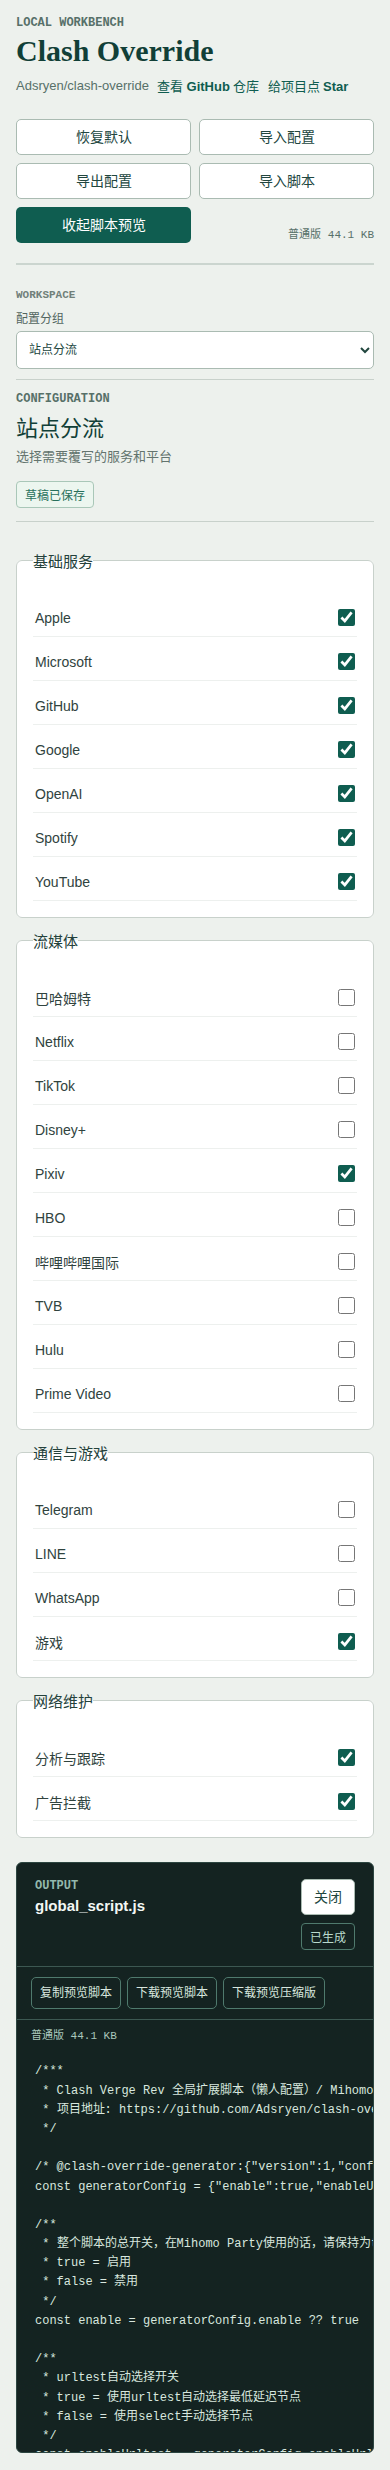
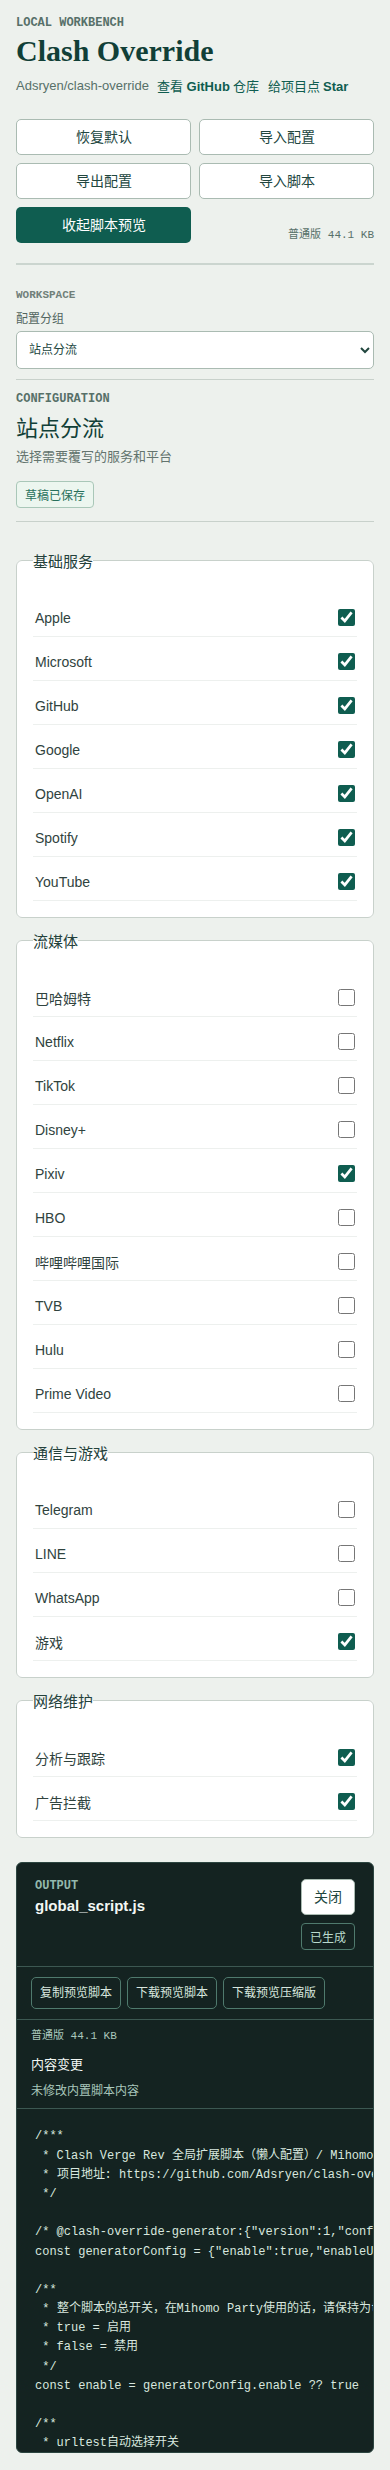
feat(generator): 添加内容变更摘要

Changed region(s): [[0.0923, 0.8105, 0.9538, 0.9976], [0.8, 0.9352, 0.8308, 0.9664]]

diff --git a/generator/src/App.tsx b/generator/src/App.tsx
@@ -216,6 +216,12 @@ interface ContentEntry {
   value: string
 }
 
+interface ContentChangeSummary {
+  label: string
+  added: string[]
+  removed: string[]
+}
+
 const ruleProviderTemplate = JSON.stringify({
   'example-provider': {
     type: 'http',
@@ -281,6 +287,27 @@ function contentEntries(content: GeneratedContent): ContentEntry[] {
   ]
 }
 
+function contentChangeSummaries(config: GeneratorConfig): ContentChangeSummary[] {
+  const overrides = config.contentOverrides ?? defaultScriptContentOverrides
+  return [
+    {
+      label: '规则',
+      added: overrides.rules.add,
+      removed: overrides.rules.remove,
+    },
+    {
+      label: '规则提供者',
+      added: Object.keys(overrides.ruleProviders.add),
+      removed: overrides.ruleProviders.remove,
+    },
+    {
+      label: '策略组',
+      added: overrides.proxyGroups.add.map((group) => group.name),
+      removed: overrides.proxyGroups.remove,
+    },
+  ]
+}
+
 function App() {
   const [workspace, setWorkspace] = useState<GeneratorWorkspace>(() => loadWorkspace())
   const [presetName, setPresetName] = useState('')
@@ -302,6 +329,7 @@ function App() {
   } | null>(null)
   const script = useMemo(() => renderScript(workspace.draft), [workspace.draft])
   const generatedContent = useMemo(() => inspectGeneratedContent(workspace.draft), [workspace.draft])
+  const contentChanges = useMemo(() => contentChangeSummaries(workspace.draft), [workspace.draft])
   const filteredContent = useMemo(() => {
     const query = contentSearch.trim().toLocaleLowerCase()
     return contentEntries(generatedContent).filter((entry) => {
@@ -789,6 +817,7 @@ function App() {
             script={script}
             scriptSize={scriptSize}
             minifiedStats={minifiedStats}
+            contentChanges={contentChanges}
             onClose={() => setIsPreviewOpen(false)}
             onCopy={handleCopy}
             onDownload={handleDownload}
@@ -1119,6 +1148,7 @@ interface PreviewDrawerProps {
   script: string
   scriptSize: number
   minifiedStats: { size: number; reduction: number } | null
+  contentChanges: ContentChangeSummary[]
   onClose: () => void
   onCopy: () => void
   onDownload: () => void
@@ -1126,7 +1156,8 @@ interface PreviewDrawerProps {
   isMinifying: boolean
 }
 
-function PreviewDrawer({ script, scriptSize, minifiedStats, onClose, onCopy, onDownload, onDownloadMinified, isMinifying }: PreviewDrawerProps) {
+function PreviewDrawer({ script, scriptSize, minifiedStats, contentChanges, onClose, onCopy, onDownload, onDownloadMinified, isMinifying }: PreviewDrawerProps) {
+  const hasContentChanges = contentChanges.some(({ added, removed }) => added.length > 0 || removed.length > 0)
   return (
     <aside className="preview-panel" id="script-preview-drawer" aria-label="脚本预览" aria-modal="false">
       <div className="preview-header">
@@ -1135,6 +1166,31 @@ function PreviewDrawer({ script, scriptSize, minifiedStats, onClose, onCopy, onD
       </div>
       <div className="preview-actions"><button className="button secondary" type="button" onClick={onCopy}>复制预览脚本</button><button className="button secondary" type="button" onClick={onDownload}>下载预览脚本</button><button className="button secondary" type="button" disabled={isMinifying} onClick={onDownloadMinified}>{isMinifying ? '正在压缩...' : '下载预览压缩版'}</button></div>
       <div className="compression-summary" aria-label="脚本大小"><span>普通版 {formatBytes(scriptSize)}</span>{minifiedStats && <><span>压缩版 {formatBytes(minifiedStats.size)}</span><span>减少 {minifiedStats.reduction.toFixed(1)}%</span></>}</div>
+      <section className="content-change-summary" aria-labelledby="content-change-heading">
+        <h3 id="content-change-heading">内容变更</h3>
+        {!hasContentChanges ? (
+          <p>未修改内置脚本内容</p>
+        ) : (
+          <div className="content-change-list">
+            {contentChanges.map(({ label, added, removed }) => (
+              <article className="content-change-category" key={label}>
+                <h4>{label}</h4>
+                <div className="content-change-counts">
+                  <span>新增 {added.length} 项</span>
+                  <span>移除 {removed.length} 项</span>
+                </div>
+                <details>
+                  <summary>查看明细</summary>
+                  <div className="content-change-details">
+                    {added.length > 0 && <div><strong>新增</strong><ul>{added.map((item) => <li key={`add-${item}`}>{item}</li>)}</ul></div>}
+                    {removed.length > 0 && <div><strong>移除</strong><ul>{removed.map((item) => <li key={`remove-${item}`}>{item}</li>)}</ul></div>}
+                  </div>
+                </details>
+              </article>
+            ))}
+          </div>
+        )}
+      </section>
       <pre className="script-preview" data-testid="script-preview"><code>{script}</code></pre>
     </aside>
   )

diff --git a/generator/src/App.test.tsx b/generator/src/App.test.tsx
@@ -5,6 +5,7 @@ import App from './App'
 import { defaultGeneratorConfig } from './domain/config'
 import { serializeConfigFile } from './domain/config-file'
 import { renderScript } from './domain/script'
+import { generatorWorkspaceStorageKey } from './domain/storage'
 
 const createObjectUrl = vi.fn(() => 'blob:generated-script')
 const revokeObjectUrl = vi.fn()
@@ -264,6 +265,70 @@ describe('App', () => {
     expect(screen.getByRole('button', { name: '收起脚本预览' })).toHaveAttribute('aria-expanded', 'true')
   })
 
+  it('shows that the preview uses the default built-in script content when no overrides exist', () => {
+    render(<App />)
+
+    expect(screen.getByRole('heading', { name: '内容变更' })).toBeVisible()
+    expect(screen.getByText('未修改内置脚本内容')).toBeVisible()
+    expect(screen.queryByText('新增 1 项')).not.toBeInTheDocument()
+    expect(screen.queryByText('移除 1 项')).not.toBeInTheDocument()
+  })
+
+  it('summarizes added and removed script content by category in the preview', async () => {
+    const draft = {
+      ...defaultGeneratorConfig,
+      contentOverrides: {
+        rules: {
+          add: ['DOMAIN-SUFFIX,added.example,DIRECT'],
+          remove: ['GEOSITE,removed,REJECT'],
+        },
+        ruleProviders: {
+          add: {
+            'added-provider': {
+              type: 'http' as const,
+              behavior: 'domain' as const,
+              format: 'text' as const,
+              interval: 86400,
+              url: 'https://example.com/added.list',
+              path: './ruleset/added.list',
+            },
+          },
+          remove: ['removed-provider'],
+        },
+        proxyGroups: {
+          add: [{ name: '新增策略组', type: 'select' as const, proxies: ['DIRECT'] }],
+          remove: ['移除策略组'],
+        },
+      },
+    }
+    localStorage.setItem(generatorWorkspaceStorageKey, JSON.stringify({
+      version: 1,
+      draft,
+      recentScript: null,
+      presets: [],
+    }))
+    const user = userEvent.setup()
+    render(<App />)
+
+    expect(screen.getByText('规则')).toBeVisible()
+    expect(screen.getByText('规则提供者')).toBeVisible()
+    expect(screen.getByText('策略组')).toBeVisible()
+    expect(screen.getAllByText('新增 1 项')).toHaveLength(3)
+    expect(screen.getAllByText('移除 1 项')).toHaveLength(3)
+
+    await user.click(screen.getAllByText('查看明细')[0])
+    expect(screen.getByText('DOMAIN-SUFFIX,added.example,DIRECT')).toBeVisible()
+    expect(screen.getByText('GEOSITE,removed,REJECT')).toBeVisible()
+
+    await user.click(screen.getAllByText('查看明细')[1])
+    expect(screen.getByText('added-provider')).toBeVisible()
+    expect(screen.getByText('removed-provider')).toBeVisible()
+
+    await user.click(screen.getAllByText('查看明细')[2])
+    expect(screen.getByText('新增策略组')).toBeVisible()
+    expect(screen.getByText('移除策略组')).toBeVisible()
+  })
+
   it('searches and removes generated script content', async () => {
     const user = userEvent.setup()
     render(<App />)
@@ -279,7 +344,7 @@ describe('App', () => {
 
     await user.click(screen.getByRole('button', { name: '删除规则 GEOSITE,google,谷歌服务' }))
 
-    expect(screen.queryByText('GEOSITE,google,谷歌服务')).not.toBeInTheDocument()
+    expect(screen.queryByRole('button', { name: '删除规则 GEOSITE,google,谷歌服务' })).not.toBeInTheDocument()
     expect(screen.getByRole('status')).toHaveTextContent('已删除脚本规则')
   })
 
@@ -342,7 +407,7 @@ describe('App', () => {
     render(<App />)
     await user.click(screen.getByRole('button', { name: '脚本内容' }))
     expect(screen.getByText('DOMAIN-SUFFIX · custom.example')).toBeVisible()
-    expect(screen.getByText('自定义策略')).toBeVisible()
+    expect(screen.getByRole('button', { name: '删除策略组 自定义策略' })).toBeVisible()
   })
 
   it('downloads a compressed generated script', async () => {

diff --git a/generator/e2e/generator.spec.ts b/generator/e2e/generator.spec.ts
@@ -146,6 +146,69 @@ test('keeps the workbench usable without horizontal overflow on mobile', async (
   await expect(page.getByTestId('script-preview')).toBeVisible()
 })
 
+test('summarizes default and changed built-in content without mobile overflow', async ({ page }) => {
+  const preview = page.getByRole('complementary', { name: '脚本预览' })
+  await expect(preview.getByRole('heading', { name: '内容变更' })).toBeVisible()
+  await expect(preview.getByText('未修改内置脚本内容')).toBeVisible()
+
+  await page.getByRole('button', { name: '脚本内容' }).click()
+  const search = page.getByRole('searchbox', { name: '搜索脚本内容' })
+
+  await page.getByRole('textbox', { name: '新增规则', exact: true }).fill('DOMAIN-SUFFIX,summary-add.example,DIRECT')
+  await page.getByRole('button', { name: '添加脚本规则' }).click()
+  await page.getByRole('textbox', { name: '新增规则', exact: true }).fill('DOMAIN-SUFFIX,summary-remove.example,DIRECT')
+  await page.getByRole('button', { name: '添加脚本规则' }).click()
+  await search.fill('summary-remove.example')
+  await page.getByRole('button', { name: '删除规则 DOMAIN-SUFFIX,summary-remove.example,DIRECT' }).click()
+
+  await page.getByRole('textbox', { name: '新增规则提供者 JSON' }).fill(JSON.stringify({
+    'summary-add-provider': {
+      type: 'http',
+      behavior: 'domain',
+      format: 'text',
+      interval: 86400,
+      url: 'https://example.com/summary-add.list',
+      path: './ruleset/summary-add.list',
+    },
+    'summary-remove-provider': {
+      type: 'http',
+      behavior: 'domain',
+      format: 'text',
+      interval: 86400,
+      url: 'https://example.com/summary-remove.list',
+      path: './ruleset/summary-remove.list',
+    },
+  }))
+  await page.getByRole('button', { name: '添加规则提供者' }).click()
+  await search.fill('summary-remove-provider')
+  await page.getByRole('button', { name: '删除提供者 summary-remove-provider' }).click()
+
+  await page.getByRole('textbox', { name: '新增策略组 JSON' }).fill(JSON.stringify([
+    { name: 'summary-add-group', type: 'select', proxies: ['DIRECT'] },
+    { name: 'summary-remove-group', type: 'select', proxies: ['DIRECT'] },
+  ]))
+  await page.getByRole('button', { name: '添加策略组' }).click()
+  await search.fill('summary-remove-group')
+  await page.getByRole('button', { name: '删除策略组 summary-remove-group' }).click()
+
+  await expect(preview.getByRole('heading', { name: '规则', exact: true, level: 4 })).toBeVisible()
+  await expect(preview.getByRole('heading', { name: '规则提供者', level: 4 })).toBeVisible()
+  await expect(preview.getByRole('heading', { name: '策略组', level: 4 })).toBeVisible()
+  await expect(preview.getByText('新增 1 项', { exact: true })).toHaveCount(3)
+  await expect(preview.getByText('移除 1 项', { exact: true })).toHaveCount(3)
+
+  await preview.getByText('查看明细', { exact: true }).nth(0).click()
+  await expect(preview.getByText('DOMAIN-SUFFIX,summary-add.example,DIRECT', { exact: true })).toBeVisible()
+  await expect(preview.getByText('DOMAIN-SUFFIX,summary-remove.example,DIRECT', { exact: true })).toBeVisible()
+
+  await page.setViewportSize({ width: 390, height: 844 })
+  const metrics = await page.evaluate(() => ({
+    viewport: window.innerWidth,
+    scrollWidth: document.documentElement.scrollWidth,
+  }))
+  expect(metrics.scrollWidth).toBeLessThanOrEqual(metrics.viewport)
+})
+
 test('searches, removes, and adds generated script content', async ({ page }) => {
   await page.getByRole('button', { name: '脚本内容' }).click()
   await page.getByRole('searchbox', { name: '搜索脚本内容' }).fill('谷歌服务')

diff --git a/generator/src/styles.css b/generator/src/styles.css
@@ -869,6 +869,93 @@ legend {
   text-align: left;
 }
 
+.content-change-summary {
+  min-width: 0;
+  border-bottom: 1px solid #3c5852;
+  padding: 10px 14px;
+  color: #d8e7df;
+}
+
+.content-change-summary h3 {
+  margin: 0 0 8px;
+  color: #f2f7f4;
+  font-size: 13px;
+}
+
+.content-change-summary > p {
+  margin: 0;
+  color: #a9c7bc;
+  font-size: 12px;
+}
+
+.content-change-list {
+  display: grid;
+  grid-template-columns: repeat(3, minmax(0, 1fr));
+  gap: 6px;
+}
+
+.content-change-category {
+  min-width: 0;
+  border: 1px solid #3c5852;
+  border-radius: 4px;
+  padding: 7px 8px;
+  background: #1a302c;
+}
+
+.content-change-category h4 {
+  margin: 0 0 5px;
+  overflow-wrap: anywhere;
+  color: #e6f0eb;
+  font-size: 12px;
+}
+
+.content-change-counts {
+  display: flex;
+  flex-wrap: wrap;
+  gap: 3px 8px;
+  color: #a9c7bc;
+  font-family: "SFMono-Regular", Consolas, monospace;
+  font-size: 11px;
+  line-height: 1.4;
+}
+
+.content-change-category details {
+  margin-top: 6px;
+}
+
+.content-change-category summary {
+  width: fit-content;
+  color: #b9dacd;
+  cursor: pointer;
+  font-size: 11px;
+  font-weight: 700;
+}
+
+.content-change-details {
+  display: grid;
+  gap: 6px;
+  margin-top: 6px;
+  color: #c7d9d1;
+  font-size: 11px;
+}
+
+.content-change-details strong {
+  color: #e6f0eb;
+}
+
+.content-change-details ul {
+  display: grid;
+  gap: 2px;
+  min-width: 0;
+  margin: 3px 0 0;
+  padding-left: 16px;
+}
+
+.content-change-details li {
+  min-width: 0;
+  overflow-wrap: anywhere;
+}
+
 @media (max-width: 1220px) {
   .workbench.preview-open {
     grid-template-columns: 170px minmax(0, 1fr);
@@ -931,6 +1018,10 @@ legend {
 
   .preview-header {
     flex-wrap: wrap;
+  }
+
+  .content-change-list {
+    grid-template-columns: minmax(0, 1fr);
   }
 }
 
